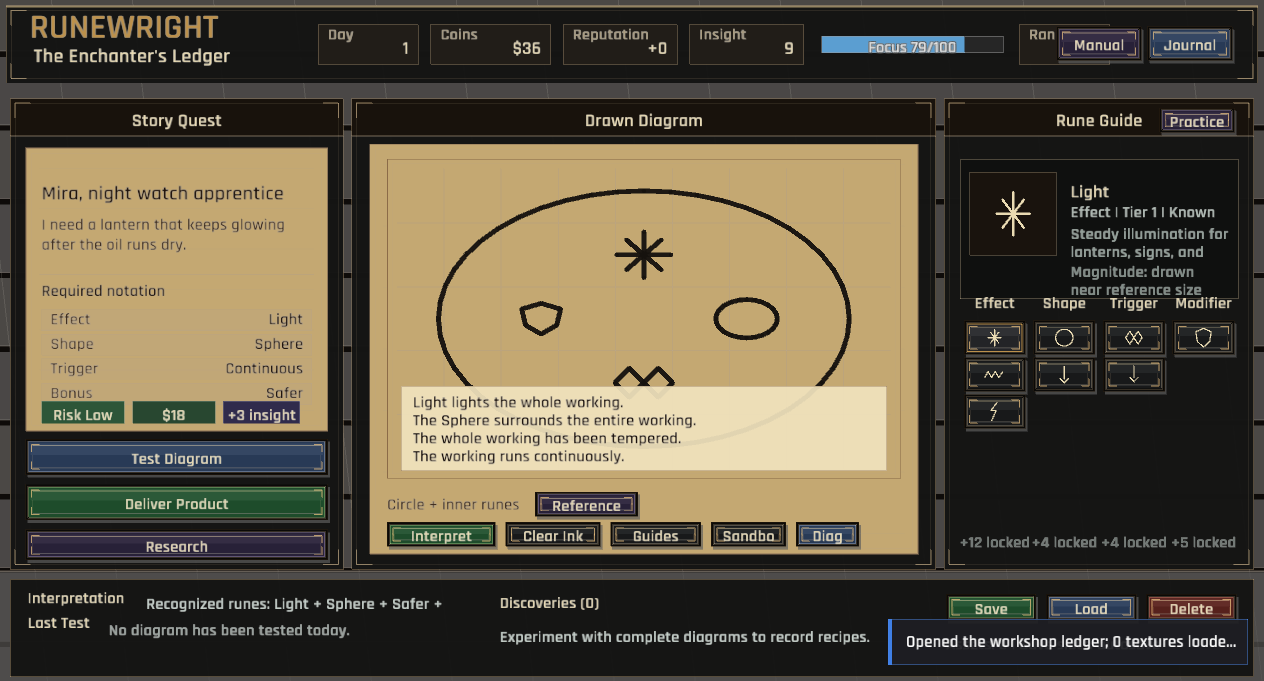
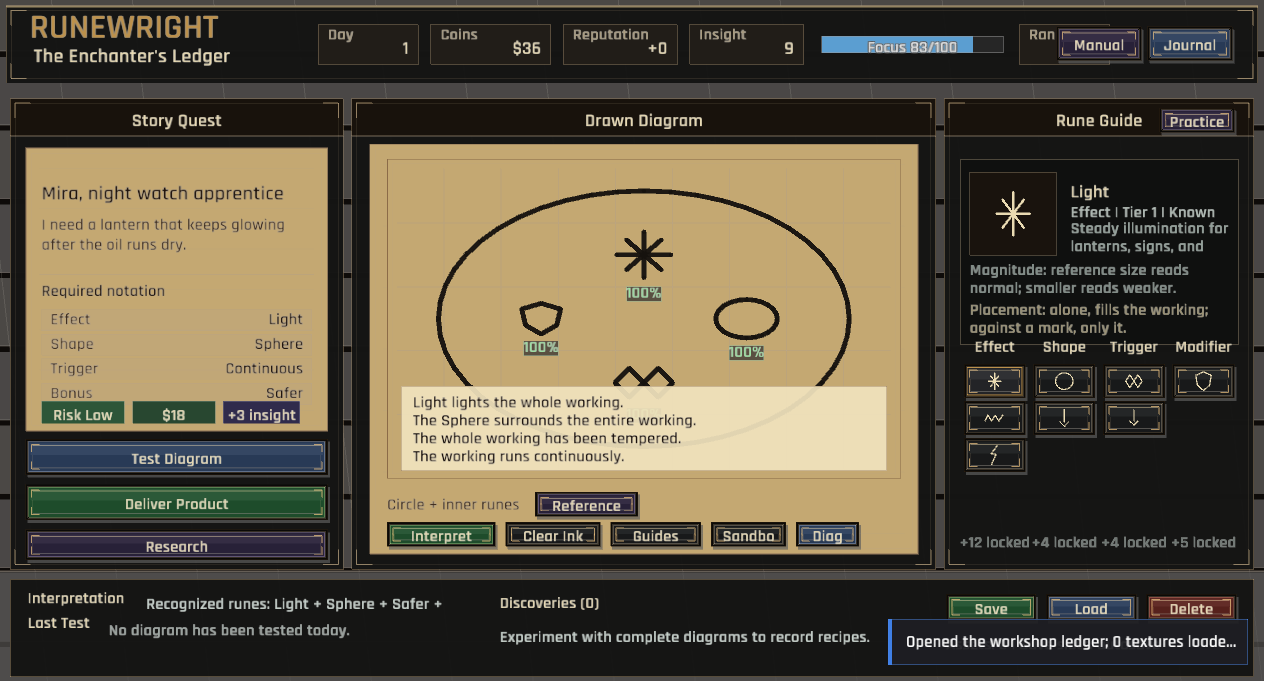
Each mark now says how strongly it was drawn
Potency has always been a per-rune magnitude channel, but the only place a
player could see it was the ledger row, averaged across the whole diagram —
which says that something was drawn off-size and never which mark. Interpret
now tags every rune it read with its own figure, under the ink, banded weak /
reference / strong against the potency curve's own 1.0 anchor with a dead band
so an honestly hand-drawn mark is not flagged. The ledger row keeps the
average and now says so.

The post-Interpret overlay — reading card, spell feedback, the new tags —
moves to src/ui/drawing/feedback.rs; it is the read-back layer, consuming a
finished interpretation and never producing a UiAction, and drawing.rs was
past the 600-line soft limit with it.

diff --git a/src/ui/drawing/feedback.rs b/src/ui/drawing/feedback.rs
@@ -1,0 +1,188 @@
+//! Everything drawn *on top of* the slate once Interpret has run.
+//!
+//! Nothing here shows while the pen is down — the uncertainty is the mechanic.
+//! Kept apart from `drawing.rs` (which owns the slate surface, the ink, the
+//! guides and the control strip) because this is the read-back layer: it only
+//! ever consumes a finished `DiagramInterpretation` and never produces a
+//! `UiAction`.
+
+use crate::rune_diagram::DiagramInterpretation;
+use crate::ui::canvas::point_to_screen;
+use macroquad::prelude::*;
+use macroquad_toolkit::prelude::*;
+
+/// The reading, revealed over the slate after Interpret.
+///
+/// This is the whole teaching surface for the placement grammar
+/// (`.project/placement-rules.md` §4): the player commits to a drawing, presses
+/// Interpret, and the game reads their handwriting back to them.
+pub(super) fn draw_reading(lines: &[String], slate: Rect) {
+    if lines.is_empty() {
+        return;
+    }
+    let line_height = 19.0;
+    let card = Rect::new(
+        slate.x + 14.0,
+        slate.bottom() - 22.0 - lines.len() as f32 * line_height,
+        slate.w - 28.0,
+        14.0 + lines.len() as f32 * line_height,
+    );
+    draw_surface(
+        card,
+        &SurfaceStyle::new(Color::new(0.94, 0.88, 0.72, 0.93))
+            .with_border(1.0, Color::new(0.42, 0.27, 0.12, 0.70)),
+    );
+    for (index, line) in lines.iter().enumerate() {
+        draw_text_block(
+            line,
+            card.x + 12.0,
+            card.y + 6.0 + index as f32 * line_height,
+            card.w - 24.0,
+            line_height,
+            14.0,
+            1.0,
+            Color::new(0.10, 0.06, 0.03, 1.0),
+        );
+    }
+}
+
+/// Which side of reference size a rune's magnitude channel landed on.
+///
+/// The split is the potency curve's own — `recognition::potency_from_scale_ratio`
+/// anchors 1.0 at a category's reference size drawn with a fully-traced stroke —
+/// and the ±0.12 dead band around it keeps a mark that is merely hand-drawn from
+/// reading as a mistake.
+#[derive(Debug, Clone, Copy, PartialEq, Eq)]
+enum PotencyBand {
+    Weak,
+    Reference,
+    Strong,
+}
+
+impl PotencyBand {
+    fn of(potency: f32) -> Self {
+        if potency < 0.88 {
+            Self::Weak
+        } else if potency > 1.12 {
+            Self::Strong
+        } else {
+            Self::Reference
+        }
+    }
+
+    fn color(self) -> Color {
+        match self {
+            Self::Weak => Color::new(0.95, 0.56, 0.44, 1.0),
+            Self::Reference => Color::new(0.60, 0.92, 0.64, 1.0),
+            Self::Strong => Color::new(0.97, 0.80, 0.38, 1.0),
+        }
+    }
+}
+
+const POTENCY_TAG_FONT: f32 = 12.0;
+const POTENCY_TAG_HEIGHT: f32 = 16.0;
+
+/// Per-rune potency, tagged onto the mark that earned it.
+///
+/// Potency is a per-rune magnitude channel (prd.md §4), but the ledger status
+/// row can only afford one figure for the whole diagram, and an average only
+/// says *that* something was drawn off-size. The tag says *which* mark — the
+/// only form of the number a player can act on, since the fix is to redraw that
+/// one rune larger, smaller, or with its stroke finished.
+pub(super) fn draw_potency_tags(diagram: &DiagramInterpretation, slate: Rect) {
+    for rune in &diagram.runes {
+        let center = point_to_screen(slate, rune.center);
+        let label = format!("{}%", (rune.potency * 100.0).round() as i32);
+        let width = measure_ui_text(&label, None, POTENCY_TAG_FONT as u16, 1.0).width + 10.0;
+        // Under the mark, so the tag never covers the ink it is describing;
+        // clamped so a rune drawn against an edge still gets a readable figure.
+        let tag = Rect::new(
+            (center.x - width * 0.5).clamp(slate.x + 3.0, slate.right() - width - 3.0),
+            (center.y + slate.w.min(slate.h) * rune.scale * 0.5 + 3.0)
+                .clamp(slate.y + 3.0, slate.bottom() - POTENCY_TAG_HEIGHT - 3.0),
+            width,
+            POTENCY_TAG_HEIGHT,
+        );
+        let color = PotencyBand::of(rune.potency).color();
+        draw_surface(
+            tag,
+            &SurfaceStyle::new(Color::new(0.09, 0.06, 0.035, 0.80))
+                .with_border(1.0, with_alpha(color, 0.55)),
+        );
+        draw_text_centered(
+            &label,
+            tag.center().x,
+            tag.bottom() - 4.0,
+            TextStyle::new(POTENCY_TAG_FONT, color),
+        );
+    }
+}
+
+pub(super) fn draw_spell_feedback(diagram: &DiagramInterpretation, slate: Rect) {
+    let Some(spell) = &diagram.spell else {
+        return;
+    };
+    let center = slate.center();
+    let base_radius = slate.w.min(slate.h) * 0.42;
+    let alpha = (0.14 + spell.complexity * 0.30).clamp(0.16, 0.48);
+    let color = if spell.tier_rank >= 4 {
+        Color::new(0.38, 0.82, 0.95, alpha)
+    } else if spell.tier_rank >= 3 {
+        Color::new(0.86, 0.64, 0.20, alpha)
+    } else {
+        Color::new(0.44, 0.70, 0.44, alpha)
+    };
+    for index in 0..spell.ring_count.clamp(1, 4) {
+        let radius = base_radius * (0.88 - index as f32 * 0.12);
+        draw_circle_lines(center.x, center.y, radius, 2.0, color);
+    }
+    for index in 0..spell.satellite_count.min(10) {
+        let angle = std::f32::consts::TAU * index as f32 / spell.satellite_count.max(1) as f32;
+        let point = vec2(
+            center.x + angle.cos() * base_radius * 0.62,
+            center.y + angle.sin() * base_radius * 0.62,
+        );
+        draw_circle_lines(point.x, point.y, 8.0 + spell.intensity * 5.0, 1.7, color);
+    }
+    for index in 0..spell.radial_count.min(8) {
+        let angle = std::f32::consts::TAU * index as f32 / spell.radial_count.max(1) as f32;
+        draw_line(
+            center.x,
+            center.y,
+            center.x + angle.cos() * base_radius * 0.72,
+            center.y + angle.sin() * base_radius * 0.72,
+            1.2,
+            with_alpha(color, color.a * 0.55),
+        );
+    }
+    for index in 0..spell.script_mark_count.min(36) {
+        let angle = std::f32::consts::TAU * index as f32 / spell.script_mark_count.max(1) as f32;
+        let radius = base_radius * (0.40 + (index % 3) as f32 * 0.10);
+        let point = vec2(
+            center.x + angle.cos() * radius,
+            center.y + angle.sin() * radius,
+        );
+        draw_circle(point.x, point.y, 1.6, with_alpha(color, color.a * 0.70));
+    }
+}
+
+#[cfg(test)]
+mod tests {
+    use super::PotencyBand;
+
+    /// The bands have to agree with `recognition::potency_for_rune`'s own
+    /// anchors, or a rune drawn at exactly reference size would be flagged.
+    #[test]
+    fn reference_size_rune_reads_as_reference() {
+        assert_eq!(PotencyBand::of(1.0), PotencyBand::Reference);
+        assert_eq!(PotencyBand::of(0.88), PotencyBand::Reference);
+        assert_eq!(PotencyBand::of(1.12), PotencyBand::Reference);
+    }
+
+    /// `potency_for_rune` clamps to [0.35, 2.2]; both ends have to band.
+    #[test]
+    fn clamped_extremes_band_apart() {
+        assert_eq!(PotencyBand::of(0.35), PotencyBand::Weak);
+        assert_eq!(PotencyBand::of(2.2), PotencyBand::Strong);
+    }
+}

diff --git a/src/ui/drawing.rs b/src/ui/drawing.rs
@@ -1,3 +1,5 @@
+mod feedback;
+
 use super::canvas::{
     draw_strokes, eraser_radius_in_rect, point_distance, point_in_rect, point_to_screen,
     ERASER_RADIUS_PIXELS,
@@ -6,6 +8,7 @@ use super::widgets::{mouse_over_rect, muted_ink, parchment_line, parchment_page,
 use super::{UiAction, UiContext};
 use crate::rune_drawing::{template_strokes_for_rune, StrokePoint};
 use crate::state::{CircleGuide, GuideTemplate, RuneMastery};
+use feedback::{draw_potency_tags, draw_reading, draw_spell_feedback};
 use macroquad::prelude::*;
 use macroquad_toolkit::prelude::*;
 use std::collections::HashMap;
@@ -84,6 +87,7 @@ pub(super) fn draw_drawing_slate(
     if ctx.interpretation_feedback_active {
         if let Some(diagram) = &ctx.session.board.last_diagram {
             draw_spell_feedback(diagram, slate);
+            draw_potency_tags(diagram, slate);
         }
         draw_reading(ctx.reading_lines, slate);
     }
@@ -284,42 +288,6 @@ pub(super) fn draw_drawing_slate(
         mouse,
     ) {
         actions.push(UiAction::CopyDiagnostics);
-    }
-}
-
-/// The reading, revealed over the slate after Interpret.
-///
-/// This is the whole teaching surface for the placement grammar
-/// (`.project/placement-rules.md` §4): the player commits to a drawing, presses
-/// Interpret, and the game reads their handwriting back to them. Nothing shows
-/// while the pen is down — the uncertainty is the mechanic.
-fn draw_reading(lines: &[String], slate: Rect) {
-    if lines.is_empty() {
-        return;
-    }
-    let line_height = 19.0;
-    let card = Rect::new(
-        slate.x + 14.0,
-        slate.bottom() - 22.0 - lines.len() as f32 * line_height,
-        slate.w - 28.0,
-        14.0 + lines.len() as f32 * line_height,
-    );
-    draw_surface(
-        card,
-        &SurfaceStyle::new(Color::new(0.94, 0.88, 0.72, 0.93))
-            .with_border(1.0, Color::new(0.42, 0.27, 0.12, 0.70)),
-    );
-    for (index, line) in lines.iter().enumerate() {
-        draw_text_block(
-            line,
-            card.x + 12.0,
-            card.y + 6.0 + index as f32 * line_height,
-            card.w - 24.0,
-            line_height,
-            14.0,
-            1.0,
-            Color::new(0.10, 0.06, 0.03, 1.0),
-        );
     }
 }
 
@@ -541,57 +509,4 @@ fn guide_point_to_screen(rect: Rect, center: StrokePoint, scale: f32, point: Str
         center.x + (point.x - 0.5) * scale * base,
         center.y + (point.y - 0.5) * scale * base,
     )
-}
-
-fn draw_spell_feedback(diagram: &crate::rune_diagram::DiagramInterpretation, rect: Rect) {
-    let Some(spell) = &diagram.spell else {
-        return;
-    };
-    let center = rect.center();
-    let base_radius = rect.w.min(rect.h) * 0.42;
-    let alpha = (0.14 + spell.complexity * 0.30).clamp(0.16, 0.48);
-    let color = if spell.tier_rank >= 4 {
-        Color::new(0.38, 0.82, 0.95, alpha)
-    } else if spell.tier_rank >= 3 {
-        Color::new(0.86, 0.64, 0.20, alpha)
-    } else {
-        Color::new(0.44, 0.70, 0.44, alpha)
-    };
-    for index in 0..spell.ring_count.clamp(1, 4) {
-        let radius = base_radius * (0.88 - index as f32 * 0.12);
-        draw_circle_lines(center.x, center.y, radius, 2.0, color);
-    }
-    for index in 0..spell.satellite_count.min(10) {
-        let angle = std::f32::consts::TAU * index as f32 / spell.satellite_count.max(1) as f32;
-        let point = vec2(
-            center.x + angle.cos() * base_radius * 0.62,
-            center.y + angle.sin() * base_radius * 0.62,
-        );
-        draw_circle_lines(point.x, point.y, 8.0 + spell.intensity * 5.0, 1.7, color);
-    }
-    for index in 0..spell.radial_count.min(8) {
-        let angle = std::f32::consts::TAU * index as f32 / spell.radial_count.max(1) as f32;
-        draw_line(
-            center.x,
-            center.y,
-            center.x + angle.cos() * base_radius * 0.72,
-            center.y + angle.sin() * base_radius * 0.72,
-            1.2,
-            Color::new(color.r, color.g, color.b, color.a * 0.55),
-        );
-    }
-    for index in 0..spell.script_mark_count.min(36) {
-        let angle = std::f32::consts::TAU * index as f32 / spell.script_mark_count.max(1) as f32;
-        let radius = base_radius * (0.40 + (index % 3) as f32 * 0.10);
-        let point = vec2(
-            center.x + angle.cos() * radius,
-            center.y + angle.sin() * radius,
-        );
-        draw_circle(
-            point.x,
-            point.y,
-            1.6,
-            Color::new(color.r, color.g, color.b, color.a * 0.70),
-        );
-    }
 }

diff --git a/src/ui/ledger.rs b/src/ui/ledger.rs
@@ -117,7 +117,9 @@ fn draw_diagram_status(ctx: &UiContext<'_>, rect: Rect) {
         };
         draw_text_block(
             &format!(
-                "{} | circle {}% | potency {}%",
+                // "avg" because the per-rune figures are now tagged on the slate
+                // itself (`drawing::draw_potency_tags`); this row is the summary.
+                "{} | circle {}% | avg potency {}%",
                 names,
                 (diagram.circle_quality * 100.0).round() as i32,
                 (diagram.average_rune_potency() * 100.0).round() as i32

diff --git a/TODO.md b/TODO.md
@@ -49,7 +49,10 @@ deliberately left for later:
 
 - Tune the containment budget. Root and sub-scope capacity coefficients are
   still the documented first cut.
-- Per-rune potency itemization on the slate; it shows only the average today.
+- ~~Per-rune potency itemization on the slate; it shows only the average
+  today.~~ Done — `ui::drawing::feedback::draw_potency_tags` tags each read rune
+  with its own figure, banded weak / reference / strong against the potency
+  curve's 1.0 anchor. The ledger row now says "avg potency" for the summary.
 
 ## Tests & structure
 
